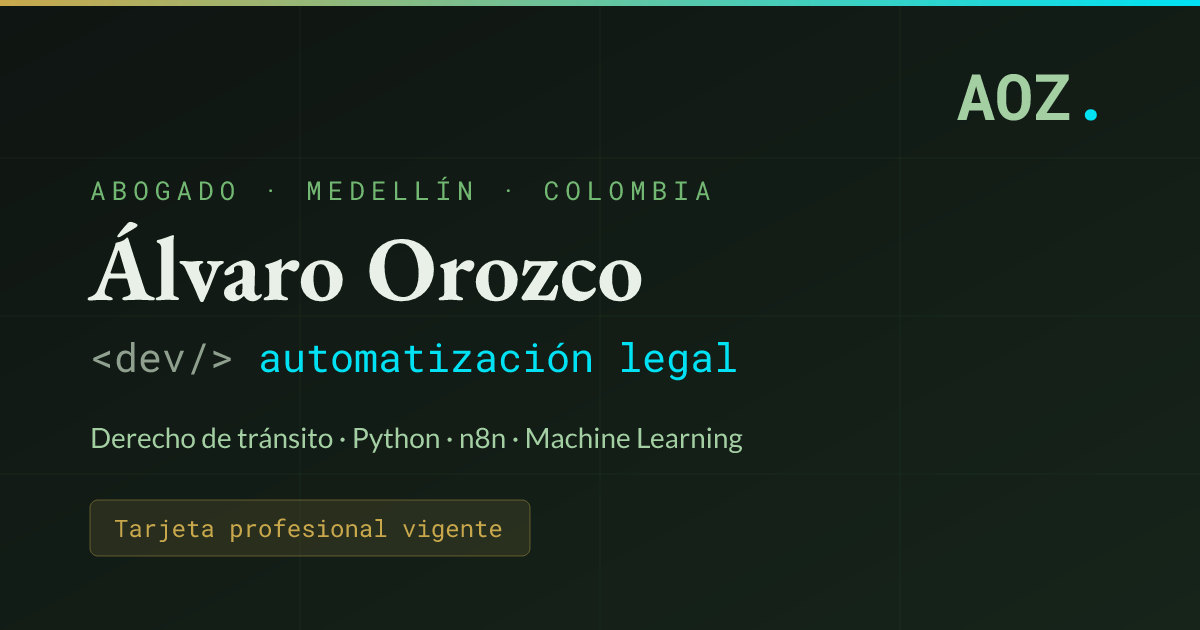
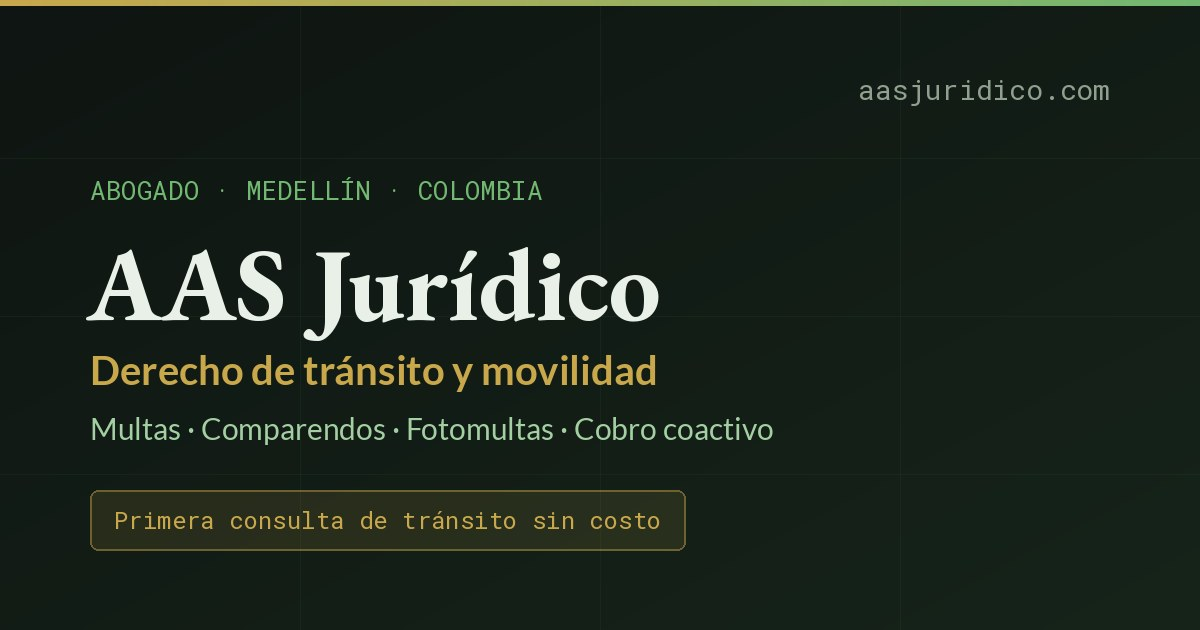
feat: data-consent checkboxes, AAS Jurídico branding in meta/OG image, custom 404

diff --git a/index.html b/index.html
@@ -9,7 +9,7 @@
   <meta http-equiv="Content-Security-Policy" content="default-src 'self'; script-src 'self' 'unsafe-inline'; style-src 'self' 'unsafe-inline'; font-src 'self' data:; img-src 'self' data:; connect-src 'self' https://api.web3forms.com; object-src 'none'; base-uri 'self'; form-action 'self'; upgrade-insecure-requests">
   <meta name="referrer" content="strict-origin-when-cross-origin">
 
-  <meta name="description" content="Álvaro Orozco — Abogado con enfoque en tránsito y movilidad en Medellín. Desarrollador de herramientas de automatización legal con Python, n8n y ML.">
+  <meta name="description" content="Abogado de tránsito y movilidad en Medellín, con atención en todo Colombia: multas, comparendos, fotomultas, prescripción y cobro coactivo. Primera consulta de tránsito sin costo.">
   <meta name="author" content="Álvaro Antonio Orozco Zapata">
   <meta name="color-scheme" content="dark light">
   <meta name="theme-color" content="#111614">
@@ -19,16 +19,16 @@
   <meta property="og:type" content="website">
   <meta property="og:url" content="https://www.aasjuridico.com/">
   <meta property="og:title" content="AAS Jurídico — Abogado">
-  <meta property="og:description" content="Derecho de tránsito y movilidad en Medellín + herramientas de automatización legal con Python, n8n y ML.">
+  <meta property="og:description" content="Abogado de tránsito y movilidad en Medellín, con atención en todo Colombia: multas, comparendos, fotomultas, prescripción y cobro coactivo. Primera consulta de tránsito sin costo.">
   <meta property="og:locale" content="es_CO">
   <meta property="og:image" content="https://www.aasjuridico.com/src/img/og-image.jpg">
   <meta property="og:image:type" content="image/jpeg">
-  <meta property="og:image:alt" content="Álvaro Orozco — Abogado · Medellín · automatización legal">
+  <meta property="og:image:alt" content="AAS Jurídico — Derecho de tránsito y movilidad en Medellín">
   <meta property="og:image:width" content="1200">
   <meta property="og:image:height" content="630">
   <meta name="twitter:card" content="summary_large_image">
   <meta name="twitter:title" content="AAS Jurídico — Abogado">
-  <meta name="twitter:description" content="Derecho de tránsito y movilidad en Medellín + automatización legal con Python, n8n y ML.">
+  <meta name="twitter:description" content="Abogado de tránsito y movilidad en Medellín, con atención en todo Colombia: multas, comparendos, fotomultas, prescripción y cobro coactivo. Primera consulta de tránsito sin costo.">
   <meta name="twitter:image" content="https://www.aasjuridico.com/src/img/og-image.jpg">
 
   <title>AAS Jurídico — Abogado</title>
@@ -40,8 +40,8 @@
   <!-- Fuentes autoalojadas: sin peticiones a Google; precarga las del primer pintado -->
   <link rel="preload" href="/css/fonts/lato-400.woff2" as="font" type="font/woff2" crossorigin>
   <link rel="preload" href="/css/fonts/eb-garamond-500-700.woff2" as="font" type="font/woff2" crossorigin>
-  <link rel="stylesheet" href="/css/fonts.css?v=10">
-  <link rel="stylesheet" href="css/main.css?v=10">
+  <link rel="stylesheet" href="/css/fonts.css?v=11">
+  <link rel="stylesheet" href="css/main.css?v=11">
 
   <!-- Evita parpadeo de tema: aplica el tema guardado antes de pintar.
        La clase .js habilita las animaciones de scroll (sin JS el contenido se ve igual). -->
@@ -103,7 +103,7 @@
 
   <div class="hero__law">
     <div class="hero__law-logo fade-up delay-1">
-      <img src="/src/img/logo-full.svg" alt="Álvaro Orozco Servicios Jurídicos" class="hero__law-logo-img" width="115" height="132" fetchpriority="high" decoding="async">
+      <img src="/src/img/logo-full.svg" alt="AAS Jurídico" class="hero__law-logo-img" width="115" height="132" fetchpriority="high" decoding="async">
     </div>
     <p class="hero__eyebrow fade-up delay-2">Abogado · Medellín, Colombia</p>
     <h1 class="fade-up delay-3">
@@ -519,6 +519,14 @@
         <label for="cf-msg">Mensaje <span class="field__req" aria-hidden="true">*</span></label>
         <textarea id="cf-msg" name="message" required rows="4" maxlength="2000" placeholder="Cuéntame brevemente tu caso o proyecto…"></textarea>
       </div>
+      <label class="form-consent">
+        <input type="checkbox" name="autoriza_datos" value="Sí" required>
+        <span>Autorizo el tratamiento de mis datos personales para atender mi consulta, según la <a href="/politica.html">política de tratamiento de datos</a>. <span class="field__req" aria-hidden="true">*</span></span>
+      </label>
+      <label class="form-consent">
+        <input type="checkbox" name="autoriza_ia" value="Sí">
+        <span>(Opcional) Autorizo el uso de mi información, previa anonimización irreversible, para mejorar herramientas de inteligencia artificial (<a href="/politica.html#ia">sección 13</a>).</span>
+      </label>
       <div class="contact-form__footer">
         <button type="submit" class="btn-gold contact-form__submit" id="cf-submit">Enviar mensaje</button>
         <p class="contact-form__hint" aria-hidden="true">* Campos obligatorios</p>
@@ -625,7 +633,7 @@
     {
       "@type": "LegalService",
       "@id": "https://www.aasjuridico.com/#legalservice",
-      "name": "Álvaro Orozco — Servicios Jurídicos",
+      "name": "AAS Jurídico",
       "description": "Abogado con enfoque en derecho de tránsito y movilidad en Medellín. Multas SIMIT, cobros coactivos, procesos civiles y herramientas de automatización legal.",
       "url": "https://www.aasjuridico.com/",
       "image": "https://www.aasjuridico.com/src/img/og-image.jpg",
@@ -683,7 +691,7 @@
       "@type": "Person",
       "@id": "https://www.aasjuridico.com/#person",
       "name": "Álvaro Antonio Orozco Zapata",
-      "jobTitle": "Abogado y Desarrollador",
+      "jobTitle": "Abogado",
       "hasCredential": {
         "@type": "EducationalOccupationalCredential",
         "credentialCategory": "Tarjeta profesional de abogado vigente",
@@ -702,8 +710,8 @@
 }
 </script>
 
-<script src="/js/main.js?v=10"></script>
-<script src="/js/projects.js?v=10"></script>
-<script src="/js/renderer.js?v=10"></script>
+<script src="/js/main.js?v=11"></script>
+<script src="/js/projects.js?v=11"></script>
+<script src="/js/renderer.js?v=11"></script>
 </body>
 </html>

diff --git a/404.html b/404.html
@@ -1,0 +1,61 @@
+<!DOCTYPE html>
+<html lang="es">
+<head>
+  <meta charset="UTF-8">
+  <meta name="viewport" content="width=device-width, initial-scale=1.0">
+  <meta name="robots" content="noindex">
+  <meta name="theme-color" content="#111614">
+  <title>Página no encontrada | AAS Jurídico</title>
+  <link rel="icon" type="image/svg+xml" href="/src/img/logo-iso.svg">
+  <link rel="stylesheet" href="/css/fonts.css?v=11">
+  <link rel="stylesheet" href="/css/main.css?v=11">
+  <script>
+    (function () {
+      try {
+        if (localStorage.getItem('aoz-theme') === 'light') {
+          document.documentElement.setAttribute('data-theme', 'light');
+          document.querySelector('meta[name="theme-color"]').setAttribute('content', '#f5f7f4');
+        }
+      } catch (e) {}
+    })();
+  </script>
+  <style>
+    .notfound {
+      min-height: 100vh;
+      min-height: 100dvh;
+      display: grid;
+      place-items: center;
+      padding: var(--sp-7) var(--gutter);
+      text-align: center;
+    }
+    .notfound__code {
+      font-family: var(--mono);
+      font-size: 1.4rem;
+      letter-spacing: 0.3em;
+      color: var(--brand);
+    }
+    .notfound h1 {
+      font-family: var(--serif);
+      font-size: clamp(3.2rem, 2.4rem + 2.4vw, 4.8rem);
+      font-weight: 600;
+      line-height: 1.12;
+      margin: 1.6rem 0;
+    }
+    .notfound p { color: var(--text-dim); max-width: 48rem; margin: 0 auto 3.2rem; }
+    .notfound__actions { display: flex; gap: 1.6rem; justify-content: center; flex-wrap: wrap; }
+  </style>
+</head>
+<body>
+<main class="notfound">
+  <div>
+    <p class="notfound__code">ERROR 404</p>
+    <h1>Esta página no existe</h1>
+    <p>Es posible que el enlace esté mal escrito o que la página se haya movido. Puedes volver al inicio o escribirme directamente.</p>
+    <div class="notfound__actions">
+      <a href="/" class="btn-gold">Volver al inicio</a>
+      <a href="https://wa.me/573027400632?text=Hola%2C%20quiero%20consultar%20sobre..." class="btn-outline-green" target="_blank" rel="noopener noreferrer">Escribir por WhatsApp<span class="sr-only"> (se abre en una pestaña nueva)</span></a>
+    </div>
+  </div>
+</main>
+</body>
+</html>

diff --git a/politica.html b/politica.html
@@ -4,7 +4,7 @@
   <meta charset="UTF-8">
   <meta http-equiv="X-UA-Compatible" content="IE=edge">
   <meta name="viewport" content="width=device-width, initial-scale=1.0">
-  <meta name="description" content="Política de tratamiento de datos personales de Álvaro Orozco — Servicios Jurídicos, conforme a la Ley 1581 de 2012 (Colombia).">
+  <meta name="description" content="Política de tratamiento de datos personales de AAS Jurídico (Álvaro Orozco), conforme a la Ley 1581 de 2012 (Colombia).">
   <meta name="theme-color" content="#111614">
   <link rel="canonical" href="https://www.aasjuridico.com/politica.html">
   <title>Política de Datos | AAS Jurídico</title>
@@ -14,8 +14,8 @@
   <!-- Fuentes autoalojadas: sin peticiones a Google; precarga las del primer pintado -->
   <link rel="preload" href="/css/fonts/lato-400.woff2" as="font" type="font/woff2" crossorigin>
   <link rel="preload" href="/css/fonts/eb-garamond-500-700.woff2" as="font" type="font/woff2" crossorigin>
-  <link rel="stylesheet" href="/css/fonts.css?v=10">
-  <link rel="stylesheet" href="/css/main.css?v=10">
+  <link rel="stylesheet" href="/css/fonts.css?v=11">
+  <link rel="stylesheet" href="/css/main.css?v=11">
 
   <!-- Mismo tema que el inicio (se aplica antes de pintar) -->
   <script>
@@ -518,6 +518,6 @@
   </p>
 </footer>
 
-<script src="/js/main.js?v=10"></script>
+<script src="/js/main.js?v=11"></script>
 </body>
 </html>

diff --git a/css/main.css b/css/main.css
@@ -2750,6 +2750,6 @@ p { text-wrap: pretty; }
 .testi-leave > summary::-webkit-details-marker { display: none; }
 .testi-leave[open] > summary { margin-bottom: 2.4rem; }
 .testi-form { max-width: 72rem; margin-inline: auto; text-align: left; }
-.testi-form__consent { display: flex; gap: 1rem; align-items: flex-start; font-size: 1.4rem; color: var(--text-dim); line-height: 1.5; }
-.testi-form__consent input { margin-top: 0.3rem; flex-shrink: 0; width: 1.8rem; height: 1.8rem; accent-color: var(--brand); }
-.testi-form__consent a { color: var(--brand); text-decoration: underline; }
+.form-consent, .testi-form__consent { display: flex; gap: 1rem; align-items: flex-start; font-size: 1.4rem; color: var(--text-dim); line-height: 1.5; }
+.form-consent input, .testi-form__consent input { margin-top: 0.3rem; flex-shrink: 0; width: 1.8rem; height: 1.8rem; accent-color: var(--brand); }
+.form-consent a, .testi-form__consent a { color: var(--brand); text-decoration: underline; }

diff --git a/sw.js b/sw.js
@@ -6,8 +6,8 @@
    Al publicar cambios sube CACHE_VERSION. Si cambias el ?v= de CSS/JS en
    index.html y politica.html, actualiza también ASSET_V.
    ============================================ */
-const CACHE_VERSION = 'aoz-v19';
-const ASSET_V = '?v=10';
+const CACHE_VERSION = 'aoz-v20';
+const ASSET_V = '?v=11';
 const PRECACHE = [
   '/',
   '/index.html',
